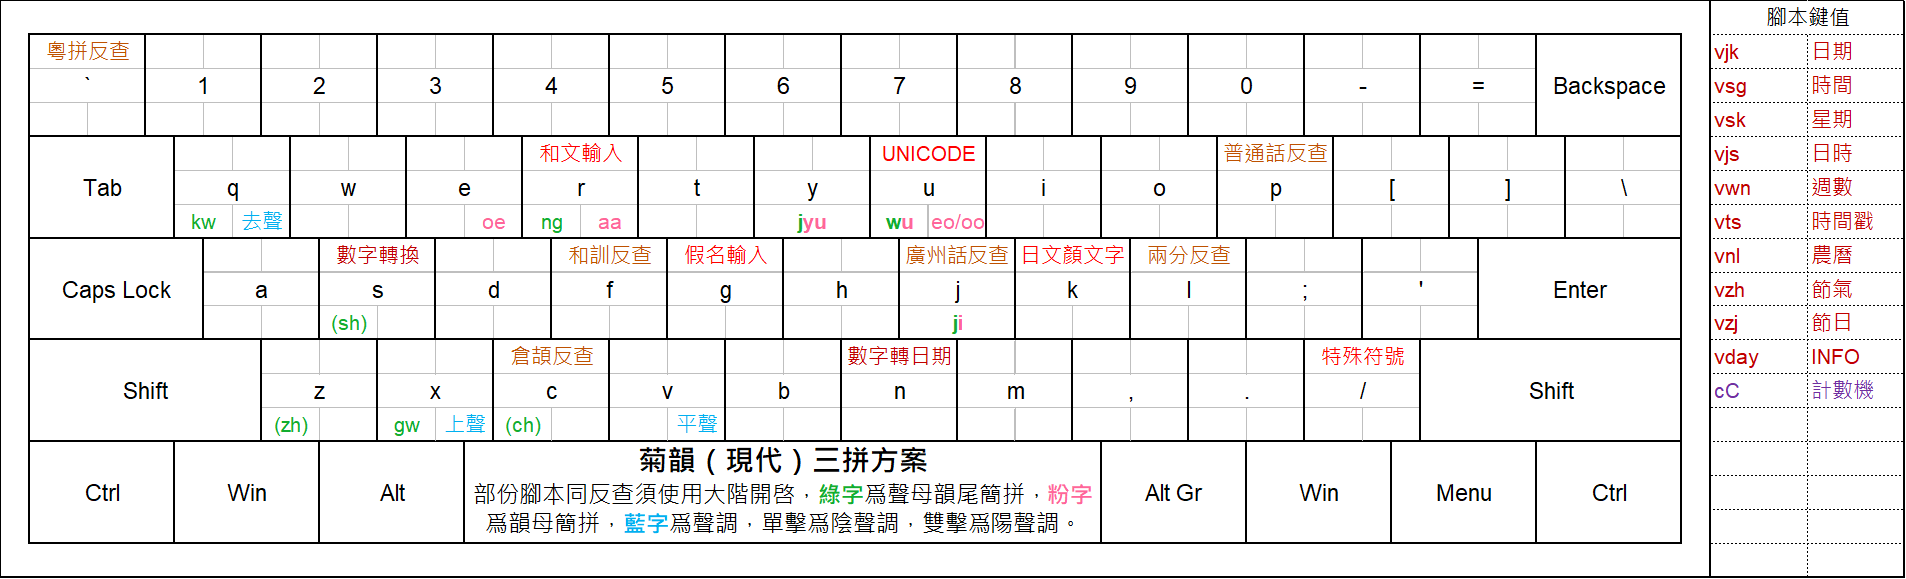
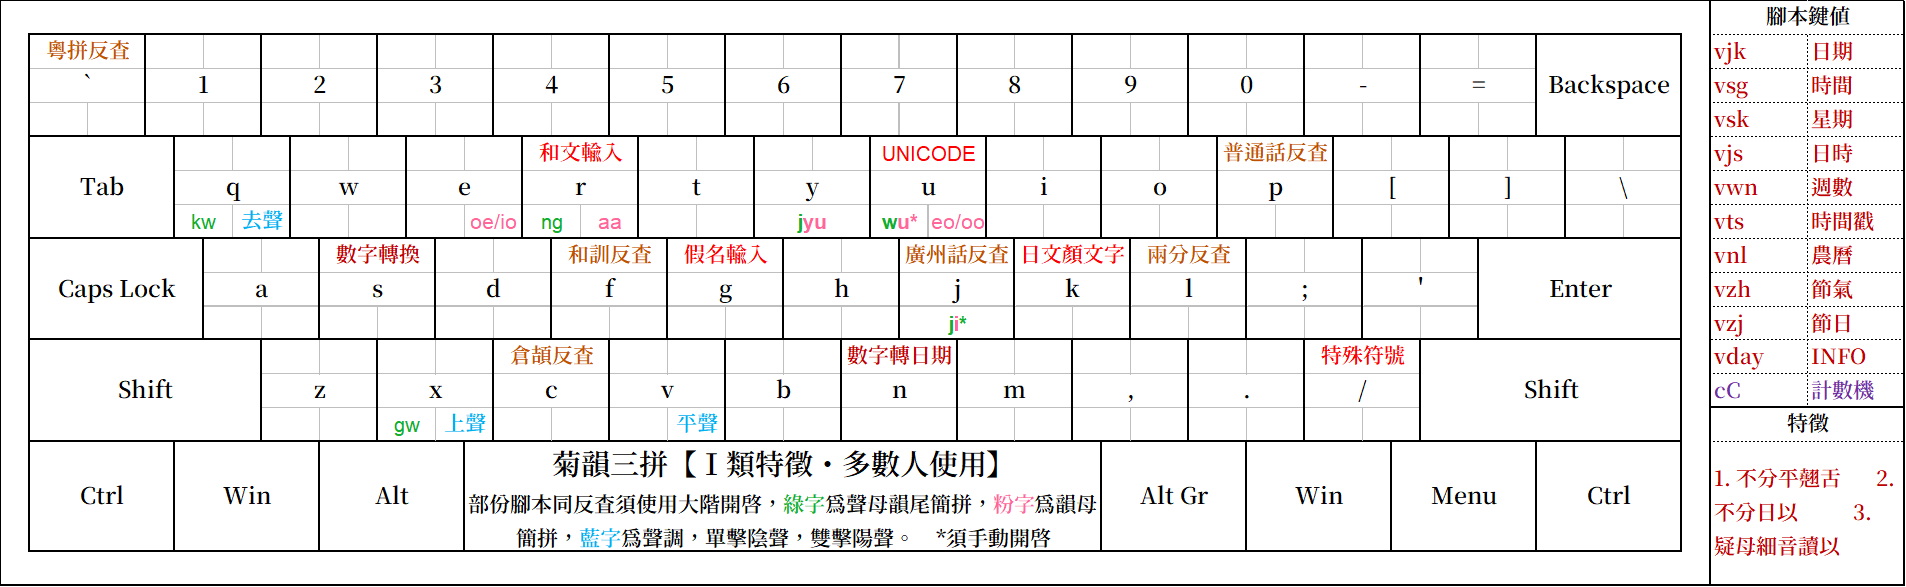
19.7.2b

diff --git a/readme.md b/readme.md
@@ -27,126 +27,101 @@ This is a schema based on [Rime Input Method](https://rime.im/).
 
 菊韻爲本人自用，只要一日未有更合本人之粵語輸入方案，則維護不停。
 
-## 功能
+# 功能
 
 支持各類方言、三拼輸入、漢英混打，各種特殊符號、日期時間輸入，各類反查等。
 
-<ul>
-	<li>以下功能出廠自帶：
-		<ul>
-			<li><strong>漢英混打：允許漢字英文混打，基於 melt-eng。待完善</strong></li>
-			<li>繪文字（表情）：可以粵語輸入繪文字，默認關閉</li>
-			<li>符號：特殊符號輸入，鍵值爲<code>/</code>。<a href="https://github.com/HoengSaan/rime-gukwan/blob/main/symbols-gukwan.yaml">學習如何使用符號</a></li>
-			<li>Unicode：以 Unicode 編號直接輸入字符，適合輸入組合字符，空白字符等難複製特殊字符，鍵值爲<code>U</code>（unicode）</li>
-			<li>數字大小寫：以阿拉伯數字輸入大小寫數字以及大小寫金額，鍵值爲<code>S</code>（SHuZy/SauZy）；
-				<details>
-					<summary>支持以下 7 種格式：</summary>
-					<ul>
-						<li>二〇二五（數字小寫）</li>
-						<li>貳零貳伍（數字大寫）</li>
-						<li>〢〇〢〥（蘇州碼子）</li>
-						<li>即花碼，由於本身特性不支持亦不需要小數點。<a href="https://zh.wikipedia.org/zh-tw/%E8%8B%8F%E5%B7%9E%E7%A0%81%E5%AD%90">瞭解更多</a></li>
-						<li>二千〇二十五（數額小寫）</li>
-						<li>貳仟零貳拾伍（數額大寫）</li>
-						<li>二千〇二十五圓整（金額小寫）</li>
-						<li>貳仟零貳拾伍圓整（金額大寫）</li>
-					</ul>
-				</details>
-			</li>
-			<li>日期・時間・節日・節氣輸入；
-				<details>
-					<summary>支持以下 11 種格式：</summary>
-					<ul>
-						<li>【<code>/date</code>】日期（NJatKi/JatKi）：現代鍵值爲<code>vjk</code>｜<code>/jk</code>；古代鍵值爲<code>vrk</code>｜<code>/rk</code>；有多種格式，部份默認禁用</li>
-						<li>【<code>/time</code>】時間（SHiGaen/SiGaan）：鍵值爲<code>vsg</code>｜<code>/sg</code></li>
-						<li>【<code>/week</code>】星期（SingKi）：鍵值爲<code>vsk</code>｜<code>/sk</code></li>
-						<li>【<code>/datetime</code>】日時（NJatSHi/JatSi）：現代鍵值爲<code>vjs</code>｜<code>/js</code>｜；古代鍵值爲<code>vrs</code>｜<code>/rs</code>；ISO 8601/RFC 3339 格式日期時間，以東八區（UTC+8）爲準</li>
-						<li>【<code>/weeknumber</code>】週數（Week Number）：鍵值爲<code>vwn</code>｜<code>/wn</code>；今年第幾周</li>
-						<li>【<code>/timestamp</code>】時間戳（Time Stamp），鍵值爲<code>vts</code>｜<code>/ts</code></li>
-						<li>【<code>/lunar</code>】農曆（NungLik），鍵值爲<code>vnl</code>｜<code>/nl</code></li>
-						<li>【<code>/zithi</code>】節氣（ZitHi）：鍵值爲<code>vzh</code>｜<code>/zh</code>｜；廿四節氣同日期</li>
-						<li>【<code>/festival</code>】節日（ZitNJat/ZitJat）：現代鍵值爲<code>vzj</code>｜<code>/zj</code>；古代鍵值爲<code>vzr</code>｜<code>/zr</code>；新舊曆節日同日期</li>
-						<li>【<code>/info</code>】日期信息整合，鍵值爲<code>vday</code>｜<code>/day</code>（電話版中州韻多數不能正常顯示）</li>
-						<li>直出，鍵值爲<code>N</code>+「<code>YYYYMMDD</code>」；有四種模式：「新曆」「新曆轉舊曆」「舊曆轉新曆」「新曆轉干支」</li>
-						<li><strong>鍵值已在腳本固定，如需修改須直接改變<code>time_gukwan.lua</code></strong></li>
-					</ul>
-				</details>
-			</li>
-			<li>計數機：直接在 RIME 計數，鍵值爲<code>cC</code>（Calculator）。<a href="https://github.com/gaboolic/rime-shuangpin-fuzhuma/blob/main/md/calc.md">學習如何使用計數機</a></li>
-		</ul>
-	</li>
-	<li>以下功能須安裝<code>rime-kikwin</code>方可使用：
-		<ul>
-			<li><mark>無日文輸入需求不建議使用</mark></li>
-            <li>假名：以細階輸入平假名，大階輸入片假名，鍵值爲<code>`G</code> （gaa ming）。輸入方式同其他 IME（如 Microsoft IME、ATOK 等）基本無區別</li>
-			<li>顏文字：以日文輸入各種顏文字，鍵值爲<code>`K</code>（kaomoji）</li>
-            <li>和文：允許半混打日文，鍵值爲<code>`R</code>（romaji）</li>
-		</ul>
-	</li>
-</ul>
-==Android可用自帶主題（`菊韻.trime.yaml`），使用功能更加方便。==
+- 以下功能出廠自帶：
+  - **漢英混打：允許漢字英文混打，基於 melt-eng。**
+  - 繪文字（表情）：可以粵語輸入繪文字，默認關閉
+  - 符號：特殊符號輸入，鍵值爲`/`。[學習如何使用符號](https://github.com/HoengSaan/rime-gukwan/blob/main/symbols-gukwan.yaml)
+  - Unicode腳本：以 Unicode 編號直接輸入字符，適合輸入組合字符，空白字符等難複製特殊字符，鍵值爲`U`（unicode）
+  - 數字腳本：以阿拉伯數字輸入大小寫數字以及大小寫金額，鍵值爲`S`（SHuZy/SauZy）；
+    - 二〇二五（數字小寫）
+    - 貳零貳伍（數字大寫）
+    - 〢〇〢〥（蘇州碼子）
+    - 即花碼，由於本身特性不支持亦不需要小數點。[瞭解更多](https://zh.wikipedia.org/zh-tw/苏州码子)
+    - 二千〇二十五（數額小寫）
+    - 貳仟零貳拾伍（數額大寫）
+    - 二千〇二十五圓整（金額小寫）
+    - 貳仟零貳拾伍圓整（金額大寫）
+  - 日期・時間・節日・節氣輸入腳本：
+    - 【`/date`】日期（NJatKi/JatKi）：`vjk`｜`/jk`｜`vrk`｜`/rk`；有多種格式，部份默認禁用
+    - 【`/time`】時間（SHiGaen/SiGaan）：`vsg`｜`/sg`
+    - 【`/week`】星期（SingKi）：`vsk`｜`/sk`
+    - 【`/datetime`】日時（NJatSHi/JatSi）：`vjs`｜`/js`｜`vrs`｜`/rs`；ISO 8601/RFC 3339 格式日期時間，以東八區（UTC+8）爲準
+    - 【`/weeknumber`】週數（Week Number）：`vwn`｜`/wn`；今年第幾周
+    - 【`/timestamp`】時間戳（Time Stamp），`vts`｜`/ts`
+    - 【`/lunar`】農曆（NungLik），`vnl`｜`/nl`
+    - 【`/zithi`】節氣（ZitHi）：`vzh`｜`/zh`｜；廿四節氣同日期
+    - 【`/festival`】節日（ZitNJat/ZitJat）：`vzj`｜`/zj``vzr`｜`/zr`；新舊曆節日同日期
+    - 【`/info`】日期信息整合，鍵值爲`vday`｜`/day`（電話版中州韻多數不能正常顯示）
+    - 【`N`+「`YYYYMMDD`】日期輸出：「新曆」「新曆轉舊曆」「舊曆轉新曆」「新曆轉干支」
+    - **鍵值已在腳本固定，如需修改須直接改變`time_gukwan.lua`**
+  - 計數機：直接在 RIME 計數，鍵值爲`cC`（Calculator）。[學習如何使用計數機](https://github.com/gaboolic/rime-shuangpin-fuzhuma/blob/main/md/calc.md)
+- 以下功能須依賴`rime-kikwin`（<mark>無日文輸入需求不建議使用</mark>）：
+  - 假名：羅馬字方式，細階輸入平假名，大階輸入片假名，鍵值爲``G` （gaa ming）。
+  - 顏文字：以日文輸入各種顏文字，鍵值爲``K`（kaomoji）
+  - 和文：允許半混打日文，鍵值爲``R`（romaji）
 
-### 多方言適應
+## Trime主題
+
+Android使用同文輸入法可用自帶主題（`菊韻.trime.yaml`），使用各種功能更加方便。基於[Wenti-D/Astralwelkin](https://github.com/Wenti-D/Astralwelkin)，源文件以[MIT 許可](https://mit-license.org/)發佈，菊韻以[CC BY NC SA 4.0 許可](cc-by-nc-sa)發佈。主題介紹請見：（未整）
+
+## 多方言適應
 
 菊韻可支持多地方言。由於衆口難調，已爲各種方言口音預設大量轉換規則同模糊音，方便自行定製。（需對 Regex 同音韻學有基本瞭解）
 
-#### 支持方言列表
+### 支持方言列表（部份）
 
 - `jyut6ping3-gw`【廣州話（廣州系）】：使用`rime-cantonese`字表同詞庫，增添菊韻所有功能以改善打字體驗。**適合穗港澳等操廣州話人士。**
 - `jyut6ping3-gw-cp`【廣州話（廣州系）】：同上，**全拼版本**。
-- `gukwan-siulaam`【小欖話（順德系）】：以小欖話比較有代表性特徵製作，兼容新派發音。
+- `gukwan-siulaam`【小欖話（順德系）】：以小欖話比較有代表性特徵製作，兼容部份新派發音。
 - `gukwan-daailoeng`【大良話（順德系）】：以大良話比較有代表性特徵製作，兼容部份新派發音。
 - `gukwan-cancyn`【陳村話（順德系）】：以陳村話比較有代表性特徵製作，兼容部份新派發音。
-- `gukwan-gwanon`【均安話（順德系）】：未製作
 - `gukwan-sekki`【石岐話（香山系）】：以石歧話新派音製作。（老派音需要自行製作字表，菊韻字表不能轉換）
 
 詳細列表同方案細節請參攷`readme-dialect.md`（[Link](https://github.com/HoengSaan/rime-gukwan/blob/main/readme-dialect.md)）
 
-### 輸入
+## 輸入
 
-打字方式仍遵從當年`rime-jyutping`基本原則。輸入廣州話時同`rime-cantonese`竝無分別，故此不贅述。
-
-多數方案使用粵拼，部份方言使用擴展粵拼，詳細請參攷`readme-dialect.md`（[Link](https://github.com/HoengSaan/rime-gukwan/blob/main/readme-dialect.md)）。
+打字方式仍遵從當年`rime-jyutping`基本原則。輸入廣州話時同`rime-cantonese`竝無分別，故此不贅述。多數方案使用粵拼，部份方言使用擴展粵拼，詳細請參攷`readme-dialect.md`（[Link](https://github.com/HoengSaan/rime-gukwan/blob/main/readme-dialect.md)）。
 
 菊韻支持竝**默認開啓三拼**，即所有漢字皆可以三鍵輸入（不含聲調）。**三拼輸入不影響聲調輸入**，用家仍然可以使用傳統打法。如不能接受，下文有解說如何關閉三拼。
 
 <img src="pic\key.png"/>
 
-#### 鍵值
+### 鍵值
 
-##### 子音（聲母）
+#### 子音（聲母）
 
 - 不區分平翹日以之方言（多數方言）
   - 以`q`輸入`kw`：如「裙」`kwan`則爲`qan`
   - 以`x`輸入`gw`：如「轟」`gwang`則爲`xar`
-  - 以`r`輸入`ng`：如「我」`ngo`則爲`ngo`（不支持單獨成韻，即「吳」`ng`無法以`r`輸入）
+  - 以`r`輸入`ng`：如「我」`ngo`則爲`ro`（不支持單獨成韻，即「吳」`ng`無法以`r`輸入）
 - 區分平翹日以之方言增補（僅`gukwan-default`，可參攷此三拼並自行適配梧州話等方言）
   - 以`z/c/s`輸入`zh/ch/sh`（實質模糊音，默認關閉）
   - 以`r`輸入`ng`｜`ngi`｜`nj`：如「言」`ngin`則爲`rin`，如「仍」`njing`則爲`rir`
 
-##### 母音（韻母）
+#### 母音（韻母）
 
-- 無韻尾情況（如`laa`，`loe`等），等同於普通粵拼
-  - 以`a`輸入`aa`：如「瓜」`gwaa`則爲`xa`
-  - 以`y`輸入`yu`（`jyu`）：如「擧」`gyu`則爲`gy`
-- 有韻尾情況（如`laang`，`loeng`等）
-  - 以`e`輸入`oe`（`io`）：如「涼」`loeng`則爲`ler`
-  - 以`r`輸入`aa`：如「逛」`gwaang`則爲`xrr`
-  - 以`y`輸入`yu`（`jyu`）:如「血」`hyut`則爲`hyt`
-  - 以`u`輸入`eo`：如「論」`leon`則爲`lun`
-- 以下三拼僅部分方案適用
-  - 以`r/e`輸入`ae`：如「斬」`zhaem`則爲`z(h)aam`｜`z(h)rm`｜`z(h)em`以`e`輸入`ia`：如「名」`miang`則爲`meng`（僅`gukwan-default`）
-  - 以`e`輸入`ia`：如「名」`miang`則爲`meng`（僅`gukwan-default`同`gukwan-sekki`）
-  - 以`u`輸入`oo`【僅限`ooi`】：如「淚」`looi`則爲`lui`
-  - 以`o`輸入`oo`【僅限`oong/ook`】：如「朗」`loong`則爲`lor`
+- 以`e`輸入`oe`（`io`）：如「涼」`loeng`則爲`ler`
+- 以`r`輸入`aa`：如「逛」`gwaang`則爲`xrr`
+- 以`y`輸入`yu`（`jyu`）:如「血」`hyut`則爲`hyt`
+- 以`u`輸入`eo`：如「論」`leon`則爲`lun`
+
+- 以`r/e`輸入`ae`：如「斬」`zhaem`則爲`z(h)aam`｜`z(h)rm`｜`z(h)em`以`e`輸入`ia`：如「名」`miang`則爲`meng`（僅`gukwan-default`）
+- 以`e`輸入`ia`：如「名」`miang`則爲`meng`（僅`gukwan-default`同`gukwan-sekki`）
+- 以`u`輸入`oo`【僅限`ooi`】：如「淚」`looi`則爲`lui`
+- 以`o`輸入`oo`【僅限`oong/ook`】：如「朗」`loong`則爲`lor`
 
 以`e`輸入`oe`是考慮`e`系韻母本身以白讀音爲主，較少使用。而`u`同`eo/oo`；`o`同`oo`兩對音在多數方言可基本互補，不影響輸入。
 
 <img src="pic\srmpir.png"/>
 
-#### 關閉三拼
+### 關閉三拼
 
-三拼是本人加速輸入全拼之做法，其會影響首拼出字之效率。若不想使用三拼，可在方案文件關閉以下選項（行頭加井號）：
+三拼雖能加速全拼輸入，但對首拼出字有影響。（首拼效率本身低，實則無必要閂）若當不想使用三拼，可在方案中關閉以下選項（行頭加井號）：
 
 ```yaml
 - derive/^kw/q/ # 簡拼(kw->q)
@@ -164,35 +139,35 @@ This is a schema based on [Rime Input Method](https://rime.im/).
 #- derive/oo(i|y)/u$1/ # 簡拼(oo->u)
 ```
 
-### 反査支持
+## 反査支持
 
 多數人士通曉廣州話、普通話卻未必熟識自己鄉下發音，故設各種反査。反査亦可用來各種疑難雜字。
 
 - 粵拼（[rime-cantonese](https://github.com/rime/rime-cantonese)），粵語廣州話反査。鍵值爲<code>` </code>
-- 朙月拼音（rime-luna_pinyin），官語普通話反査 。鍵值爲<code>`P</code>（PuPing/PouPing）
+- 朙月拼音（rime-luna_pinyin），官話普通話反査 。鍵值爲<code>`P</code>（PuPing/PouPing）
 - 倉頡五代（rime-cangjie5），倉頡反査。鍵值爲<code>`C</code>（CoongKit/CongKit）
-- 訓讀（[rime-kunyomi](https://github.com/sgalal/rime-kunyomi)），和語訓讀（現代音）反査。鍵值爲<code>`F</code>（FanDuk）
+- 訓讀（[rime-kunyomi](https://github.com/sgalal/rime-kunyomi)），和語訓讀反査。鍵值爲<code>`F</code>（FanDuk）
 - 兩分（[rime-loengfan](https://github.com/CanCLID/rime-loengfan)），粵語廣州話兩分拆字反査。鍵值爲<code>`L</code>（LiongFan/LoengFan）
 
 Android建議使用Trime並使用**菊韻主題**（`菊韻.trime.yaml`），使用功能更加方便。
 
 > [!NOTE]
 >
-> **粵拼、訓讀、兩分須安裝方可使用**，安裝方法請參攷[如何在 RIME 輸入法安裝菊韻輸入法 – なかやま園](https://zonsan.fc2.page/?p=1563)。如需使用其他方案反査，請自行定製方案。
+> **粵拼、訓讀、兩分須安裝方可使用**，如需使用其他方案反査，請自行定製方案。
 
-### 已知問題・未來方向
+## 已知問題・未來方向
 
 - 簡轉繁問題：
   - `gukwan.kwongtung.dict.yaml`數據來源係簡筆字，本人亦仔細審覈過，但都無法保證三萬幾條地名全數正確。
   - jyut6ping3 部份詞庫（例如`jyut6ping3.phrase.dict.yaml`）有明顯簡轉繁痕跡，已超出本人處理範圍。
 - 語言模型：
   - 語言模型是改善輸入體驗有效方法之一，**但粵語同官話語言模型不能完全通用，且現有大模型，即萬象模型因基於簡體字表，菊韻等繁體字表不能使用**。繁體模型目前我所知僅有[八股文](https://github.com/lotem/rime-octagram-data/)一個（注意：自帶八股文爲簡化版），可參攷`補靪範例`自行打補靪使用。
-- 聯想・預測功能：粵語無現成可用。無法解決。現有全部聯想皆基於官話。
+- 聯想・預測功能：粵語無現成可用。無法解決。現有全部聯想皆基於官話。（其實rime啲聯想本身都唔好用）
 
 
 ### 字詞收錄之標準
 
-菊韻字表爲本人獨自製作，收錄數量係不如其他音碼輸入法，更加不能同形碼輸入法比較。發音自然更是不能保證無任何謬誤。以下爲菊韻字詞收錄標準：
+菊韻字表爲本人獨自製作，收錄數量係不如部份音碼輸入法，更不能同形碼輸入法比較。發音自然更是不能保證無任何謬誤。以下爲菊韻字詞收錄標準：
 
 - 漢字：
   - 收錄廣韻全本，共二萬六千一百九十四個字。 
@@ -205,7 +180,7 @@ Android建議使用Trime並使用**菊韻主題**（`菊韻.trime.yaml`），使
   - 順德系方言單字變調（如「哭」`huk6`「錢」`cin1`等），亦儘量記錄。
   - 【注意】多音字由於無單獨調整，不能保證發音準確。
 
-## 安裝
+# 安裝
 
 此處僅簡畧說明安裝方法，具體請見[如何在 RIME 輸入法安裝菊韻輸入法 – なかやま園](https://zonsan.fc2.page/?p=1563)。更詳細教程或其他平臺可參攷以下文章：
 
@@ -213,15 +188,11 @@ Android建議使用Trime並使用**菊韻主題**（`菊韻.trime.yaml`），使
 - [配置教程 | oh-my-rime输入法](https://www.mintimate.cc/zh/guide/)（多平臺，官話）
 - [Android 上的 RIME 输入法 trime 同文输入法使用 | Verne in GitHub](https://blog.einverne.info/post/2021/04/use-trime-input-method-rime-on-android.html#安装和基础使用)（Android同文，官話）
 
-若無法使用Python，安裝後請自行從`gw_dialects`複製需要使用方案。<mark>默認狀態下只有廣州話同基底方案可用。</mark>
+安裝後請自行從`gw_dialects`複製所需方案。<mark>默認狀態下只有廣州話同基底方案可用。</mark>
 
 ### 簡略安裝流程
 
-1. 安裝 RIME
-   1. WINDOWS：[Weasel 小狼毫](https://github.com/rime/weasel)
-   2. MacOS：[Squirrel 鼠鬚管](https://github.com/rime/squirrel)｜[fcitx5-macos](https://github.com/fcitx-contrib/fcitx5-macos)
-   3. Linux：[ibus](https://github.com/ibus/ibus)→[ibus-rime](https://github.com/rime/ibus-rime)｜[fcitx5](https://github.com/fcitx/fcitx5)→[fcitx5-Rime](https://github.com/fcitx/fcitx5-rime)
-   4. Android：[同文輸入法](https://github.com/osfans/trime)｜[fcitx5-Android](https://github.com/fcitx5-android/fcitx5-android)→[fcitx5-Android-Rime](https://github.com/fcitx5-android/fcitx5-android/blob/master/plugin/rime)
+1. 安裝 RIME：[Weasel 小狼毫](https://github.com/rime/weasel)（WINDOWS）[Squirrel 鼠鬚管](https://github.com/rime/squirrel)｜[fcitx5-macos](https://github.com/fcitx-contrib/fcitx5-macos)（MacOS）[ibus](https://github.com/ibus/ibus)→[ibus-rime](https://github.com/rime/ibus-rime)｜[fcitx5](https://github.com/fcitx/fcitx5)（Linux）[同文輸入法](https://github.com/osfans/trime)｜[fcitx5-Android](https://github.com/fcitx5-android/fcitx5-android)（Android）｜[倉輸入法](https://github.com/imfuxiao/Hamster)（iOS）
 2. 安裝菊韻同所需依賴
    1. **rime-gukwan**（**本方案**）
    2. [rime-cantonese](https://github.com/rime/rime-cantonese)（**必選**，用於廣州話反査、粵語八股文、調用部份詞庫）
@@ -236,7 +207,7 @@ Android建議使用Trime並使用**菊韻主題**（`菊韻.trime.yaml`），使
 
 定製可參攷[如何定製菊韻 – なかやま園](https://zonsan.fc2.page/?p=1569)，但當真要定製中州韻方案，<mark>懇請閣下閱讀以下文章</mark>：[中州韻維基 - SpellingAlgebra](https://github.com/rime/home/wiki/SpellingAlgebra)｜[amzxyz - Patch 方法论](https://github.com/amzxyz/rime_wanxiang_pro/blob/main/custom/patch%E6%96%B9%E6%B3%95%E8%AE%BA.md)｜[oh-my-rime - 配置教程](https://www.mintimate.cc/zh/guide/)
 
-定製方案不應修改方案本身，閣下應使用補靪或根據原方案自製方案文件。
+<mark>定製方案不應修改方案本身，閣下應使用補靪或根據原方案自製方案文件。</mark>
 
 ### 漢英混打大詞庫
 
@@ -246,15 +217,14 @@ Android建議使用Trime並使用**菊韻主題**（`菊韻.trime.yaml`），使
 
 ### 添加新詞庫
 
-隨基本字表詞庫之外，菊韻亦有特色詞庫以及廣東地名詞庫若嫌不足，菊韻有腳本（<mark>須安裝Python</mark>）輔助閣下，自動修改詞庫文件以適用菊韻。**<mark>建議自行修改文件。</mark>**
+隨基本字表詞庫之外，菊韻亦有特色詞庫以及廣東地名詞庫若嫌不足，菊韻有腳本（<mark>須安裝Python</mark>）輔助閣下，自動修改詞庫文件以適用菊韻。**<mark>強烈建議手動修改文件。</mark>**
 
 菊韻添加新詞庫必須符合以下兩個要求： 
 
 1. 無輸入碼。
-   - 使用前請解壓`OpenCC.zip`至`gw_custom`，亦可自行編譯（[BYVoid/OpenCC](https://github.com/BYVoid/OpenCC)）。
-   - 將需要去除輸入碼之詞庫，放在`Dict_Source`，然後使用`去除輸入碼.py`即可去除輸入碼。文件默認輸出至`Dict_Removed`
+   - 使用前請解壓`OpenCC.zip`至`gw_custom`，亦可自行編譯（[BYVoid/OpenCC](https://github.com/BYVoid/OpenCC)）。之後將**需要去除輸入碼之詞庫**，放在`Dict_Source`，然後使用`去除輸入碼.py`即可去除輸入碼。文件默認輸出至`Dict_Removed`
 2. 詞庫必須使用繁體（OpenCC 標準）。
-   - 將需要繁化詞庫放在`Dict_Removed`，然後使用`繁簡轉換.cmd`，選擇`s2t.json`即可繁化。文件默認輸出至`Dict_Removed`。
+   - 將**需要繁化詞庫**放在`Dict_Removed`，然後使用`繁簡轉換.cmd`，選擇`s2t.json`即可繁化。文件默認輸出至`Dict_Removed`。
 
 符合要求者，可直接將詞庫放在`Dict_Converted`。毋須使用以上兩個腳本。
 
@@ -268,23 +238,23 @@ Android建議使用Trime並使用**菊韻主題**（`菊韻.trime.yaml`），使
 
 `gw_custom`內有本人使用補靪之範例，示範如何調用定製詞庫，語法模型，打字預測等。（**<mark>請勿直接使用</mark>**）
 
-# 方案
+# 文件結構・許可
+
+> [!IMPORTANT]
+>
+> 部份文件竝非我所作，故許可授權不同，使用前請注意。若無備註則皆以[CC BY NC SA 4.0 許可](cc-by-nc-sa)發佈。下列擧除方案文件外其他重要文件。
+
+## 方案
 
 > [!NOTE]
 >
-> **音標版方案已被放棄，不再維護。所有放棄維護方案存儲於`/gw_archive。`**
+> **所有放棄維護方案存儲於`/gw_archive。`**
 
 - `gukwan.schema.yaml`：基底文件（**<u><mark>請勿刪除，刪除後所有方案都無法使用</mark></u>**）
 - `jyut6ping3-gw.schema.yaml`：三拼版`rime-cantonese`（廣州話），支持菊韻所有功能。
 - `jyut6ping3-gw-cp.schema.yaml`：關閉三拼功能，支持菊韻除三拼以外一切功能。
 
 關於非廣州話方案以及參攷用方案請見`readme-dialect.md`（[Link](https://github.com/HoengSaan/rime-gukwan/blob/main/readme-dialect.md)）。
-
-# 文件結構・許可
-
-> [!IMPORTANT]
->
-> 部份文件竝非我所作，故許可授權不同，使用前請注意。若無備註則皆以[CC BY NC SA 4.0 許可](cc-by-nc-sa)發佈。下列擧除方案文件外其他重要文件。
 
 ## 字詞
 
@@ -294,14 +264,12 @@ Android建議使用Trime並使用**菊韻主題**（`菊韻.trime.yaml`），使
 - 字庫
   - `gukwan.chars.dict.yaml`：廣韻字表
   - `gukwan.chars1.dict.yaml`：廣韻異音訓讀增補
-  - `gukwan.chars2.dict.yaml`：近代字異體字異音訓讀增補
-    - 粵字平翹、日以之分參攷梧州話
+  - `gukwan.chars2.dict.yaml`：近代字異體字異音訓讀增補（粵字平翹、日以之分參攷梧州話）
   - `gukwan.chars3.dict.yaml`：[alt] 廣韻字近代字非通用增補（方言專用）
   - `gukwan.chars4.dict.yaml` ：[asp] 廣韻字近代字非通用增補（方言專用）
 - 詞庫
   - `gukwan.words.dict.yaml`：粵拼詞庫
-    - 基於`jyut6ping3.words.dict.yaml`，作者爲「粵語計算語言學基礎建設組」([@CanCLID](https://github.com/CanCLID)) ，隨源文件以[CC BY 4.0 許可](https://creativecommons.org/licenses/by/4.0/)發佈。已去除輸入碼竝改變部份字型。
-    - 已開始爲部份詞標音。
+    - 基於`jyut6ping3.words.dict.yaml`，作者爲「粵語計算語言學基礎建設組」([@CanCLID](https://github.com/CanCLID)) ，隨源文件以[CC BY 4.0 許可](https://creativecommons.org/licenses/by/4.0/)發佈。已去除輸入碼竝改變部份字型。已開始人工爲部份詞標音。
   - `gukwan.words1.dict.yaml`：地方詞增補
   - `gukwan.words2.dict.yaml`：粵拼詞庫增補同外來語
   - `gukwan.wordsjp.dict.yaml`：廣州話專用
@@ -318,8 +286,7 @@ Android建議使用Trime並使用**菊韻主題**（`菊韻.trime.yaml`），使
 
 ## 漢英混打
 
-漢英混打實現是參攷[优化 Rime 英文输入体验 - Dvel's Blog](https://dvel.me/posts/make-rime-en-better/)，基於[tumuyan/melt_eng](https://github.com/tumuyan/rime-melt)（[iDvel/rime-ice](https://github.com/iDvel/rime-ice)版）。隨源文件以[Apache 2.0](https://www.apache.org/licenses/LICENSE-2.0.html)發佈。
-英文大詞庫基於[Easy English Super](https://github.com/oniondelta/Onion_Rime_Files/tree/main)（字典：[skywind3000/ECDICT](https://github.com/skywind3000/ECDICT)，隨源文件以[MIT License](https://mit-license.org/)發佈，並禁止商用。
+漢英混打實現是參攷[优化 Rime 英文输入体验 - Dvel's Blog](https://dvel.me/posts/make-rime-en-better/)，基於[tumuyan/melt_eng](https://github.com/tumuyan/rime-melt)（[iDvel/rime-ice](https://github.com/iDvel/rime-ice)版）。隨源文件以[Apache 2.0](https://www.apache.org/licenses/LICENSE-2.0.html)發佈。英文大詞庫基於[Easy English Super](https://github.com/oniondelta/Onion_Rime_Files/tree/main)（字典：[skywind3000/ECDICT](https://github.com/skywind3000/ECDICT)，隨源文件以[MIT License](https://mit-license.org/)發佈，並禁止商用。
 
 - `gukwan-melt-eng.schema.yaml`：混打方案
 - `gukwan-melt-eng.dict.yaml`：混打辭典
@@ -378,3 +345,4 @@ Android建議使用Trime並使用**菊韻主題**（`菊韻.trime.yaml`），使
 - [嶺南粵音《泛粵大典》](https://jyutdict.org/)
 - 嶺南粵音《泛粵表》（非公開版本）
 - [zi.tools 字統网](https://zi.tools/)
+
